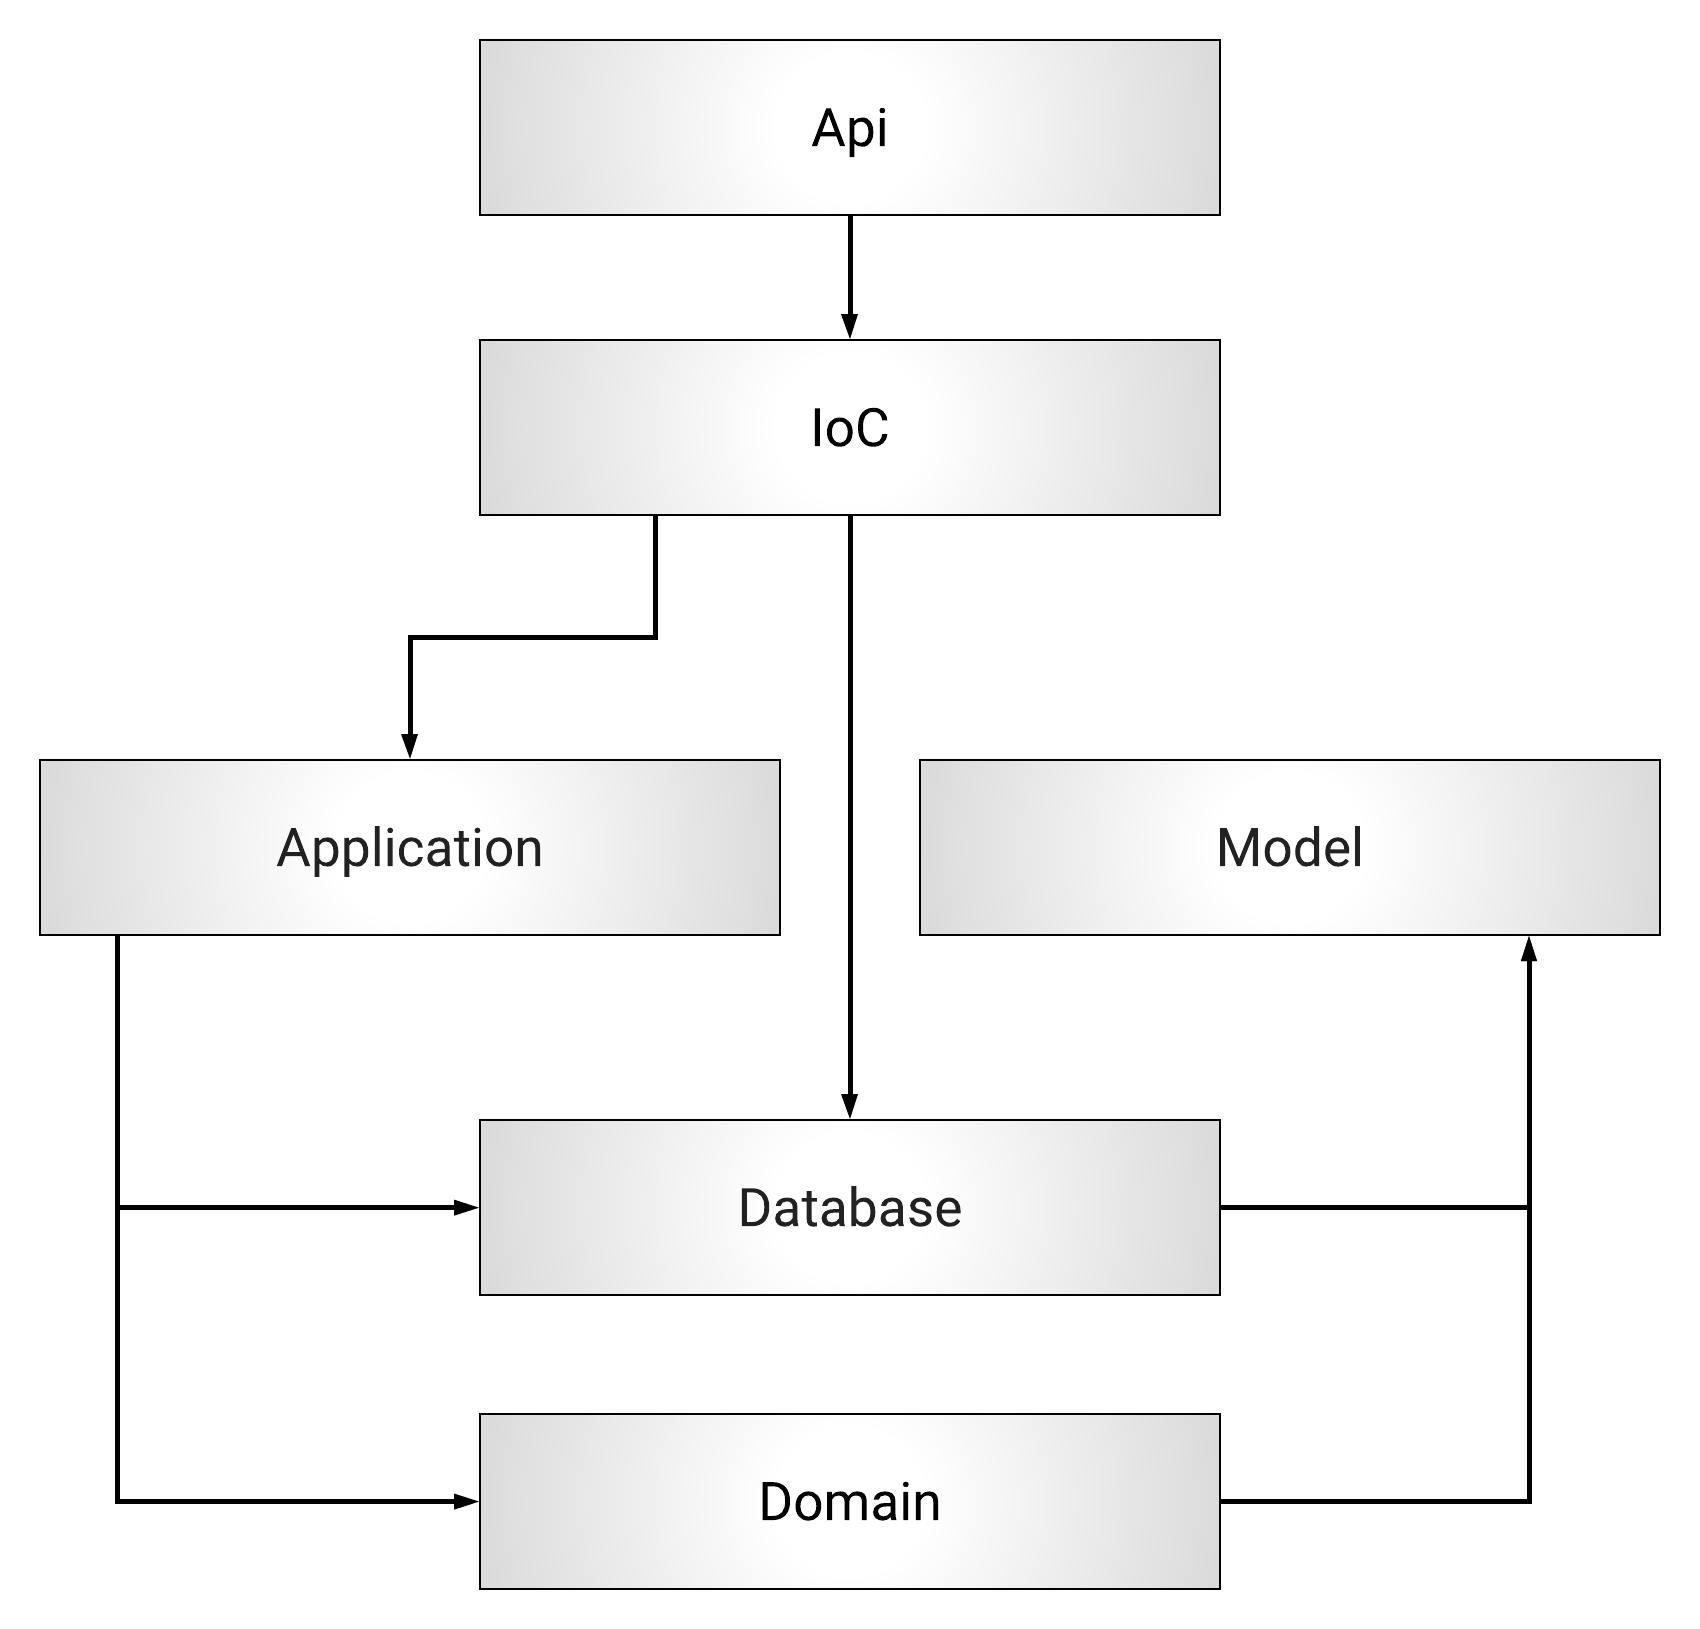
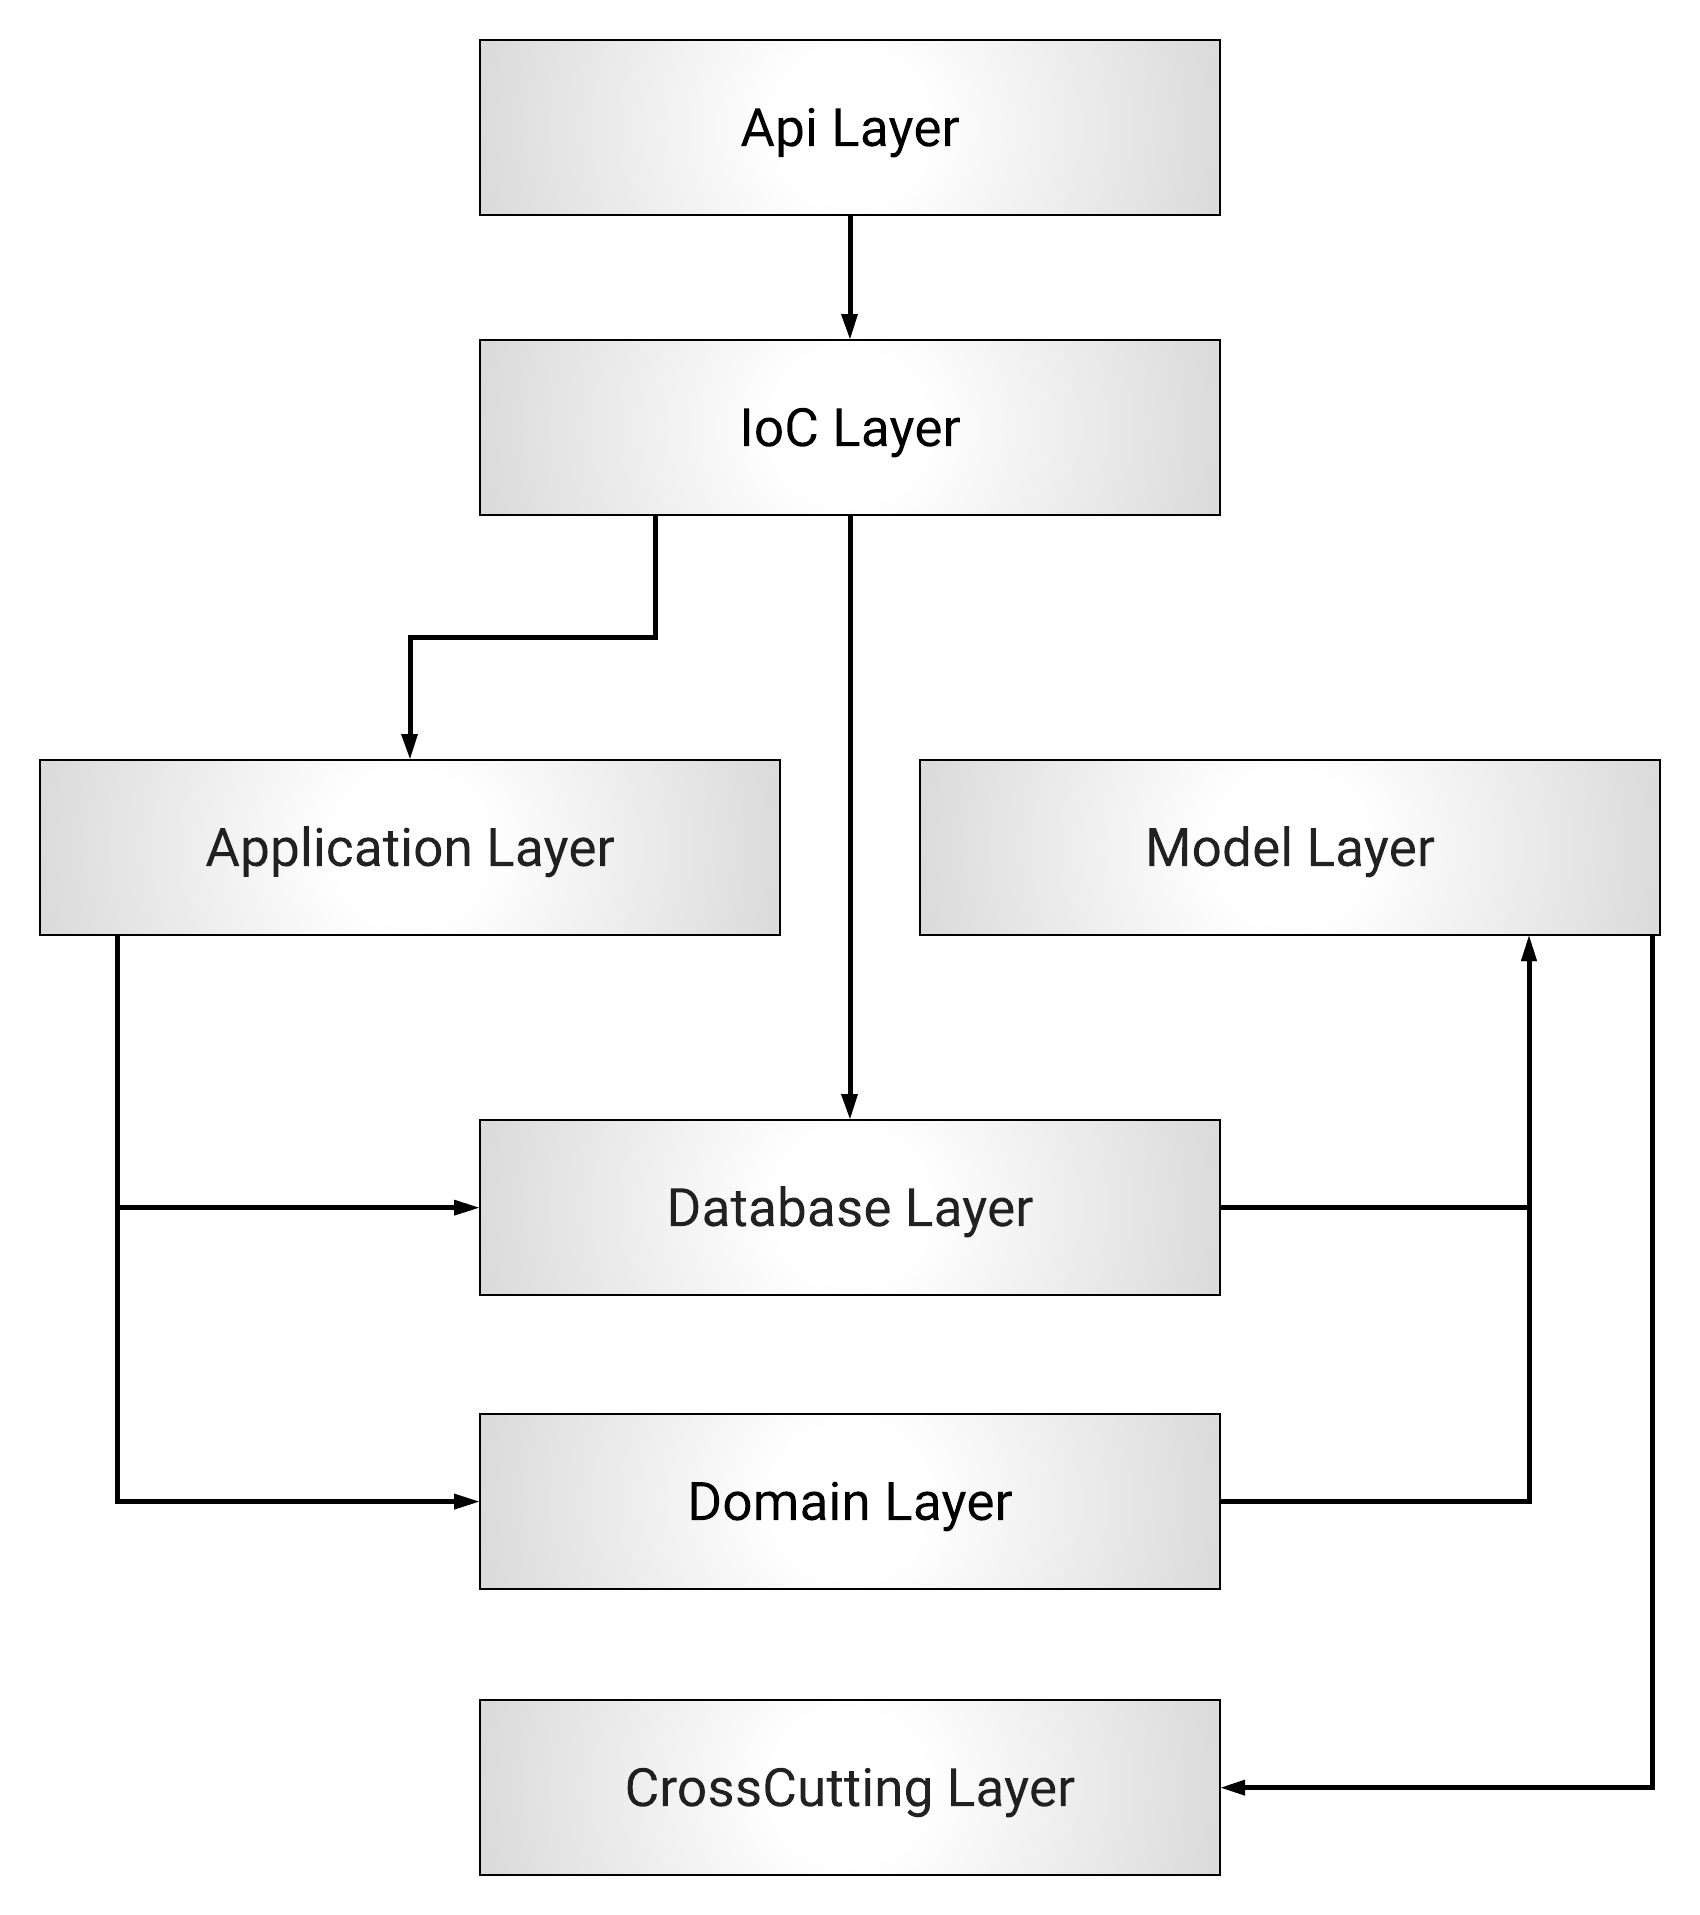
CrossCutting Layer

diff --git a/DPA.CrossCutting/Resources/Texts.Designer.cs b/DPA.CrossCutting/Resources/Texts.Designer.cs
@@ -1,0 +1,73 @@
+//------------------------------------------------------------------------------
+// <auto-generated>
+//     This code was generated by a tool.
+//     Runtime Version:4.0.30319.42000
+//
+//     Changes to this file may cause incorrect behavior and will be lost if
+//     the code is regenerated.
+// </auto-generated>
+//------------------------------------------------------------------------------
+
+namespace DPA.CrossCutting.Resources {
+    using System;
+    using System.Reflection;
+    
+    
+    /// <summary>
+    ///   A strongly-typed resource class, for looking up localized strings, etc.
+    /// </summary>
+    // This class was auto-generated by the StronglyTypedResourceBuilder
+    // class via a tool like ResGen or Visual Studio.
+    // To add or remove a member, edit your .ResX file then rerun ResGen
+    // with the /str option, or rebuild your VS project.
+    [global::System.CodeDom.Compiler.GeneratedCodeAttribute("System.Resources.Tools.StronglyTypedResourceBuilder", "15.0.0.0")]
+    [global::System.Diagnostics.DebuggerNonUserCodeAttribute()]
+    [global::System.Runtime.CompilerServices.CompilerGeneratedAttribute()]
+    public class Texts {
+        
+        private static global::System.Resources.ResourceManager resourceMan;
+        
+        private static global::System.Globalization.CultureInfo resourceCulture;
+        
+        [global::System.Diagnostics.CodeAnalysis.SuppressMessageAttribute("Microsoft.Performance", "CA1811:AvoidUncalledPrivateCode")]
+        internal Texts() {
+        }
+        
+        /// <summary>
+        ///   Returns the cached ResourceManager instance used by this class.
+        /// </summary>
+        [global::System.ComponentModel.EditorBrowsableAttribute(global::System.ComponentModel.EditorBrowsableState.Advanced)]
+        public static global::System.Resources.ResourceManager ResourceManager {
+            get {
+                if (object.ReferenceEquals(resourceMan, null)) {
+                    global::System.Resources.ResourceManager temp = new global::System.Resources.ResourceManager("DPA.CrossCutting.Resources.Texts", typeof(Texts).GetTypeInfo().Assembly);
+                    resourceMan = temp;
+                }
+                return resourceMan;
+            }
+        }
+        
+        /// <summary>
+        ///   Overrides the current thread's CurrentUICulture property for all
+        ///   resource lookups using this strongly typed resource class.
+        /// </summary>
+        [global::System.ComponentModel.EditorBrowsableAttribute(global::System.ComponentModel.EditorBrowsableState.Advanced)]
+        public static global::System.Globalization.CultureInfo Culture {
+            get {
+                return resourceCulture;
+            }
+            set {
+                resourceCulture = value;
+            }
+        }
+        
+        /// <summary>
+        ///   Looks up a localized string similar to Login or password is invalid..
+        /// </summary>
+        public static string AuthenticationInvalid {
+            get {
+                return ResourceManager.GetString("AuthenticationInvalid", resourceCulture);
+            }
+        }
+    }
+}
